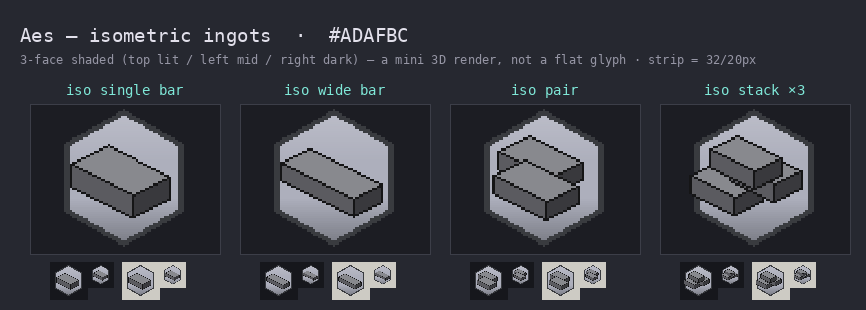
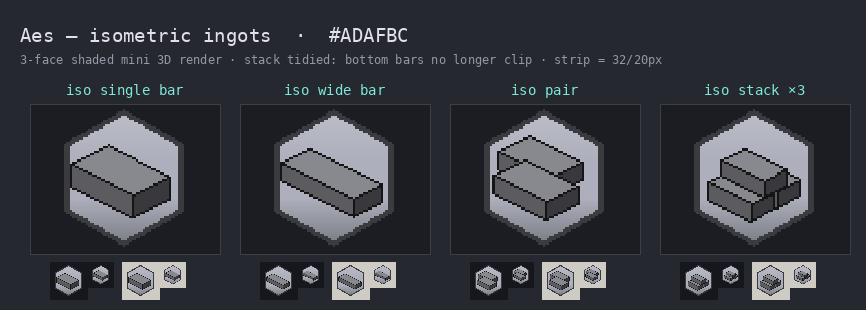
gallery: aspect-primals — tidy iso stack (shared iso space, painter-sorted; bottom bars no longer clip)

diff --git a/gallery/2026-07-20-aspect-primals/src/compounds.py b/gallery/2026-07-20-aspect-primals/src/compounds.py
@@ -318,12 +318,25 @@ def iso_pair(code):
     _iso_box(d, 23, 31, 15, 9, 5, 1.6, t, l, r, e)
     return im
 
+def _iso_scene(d, ox, oy, s, boxes, top, left, right, edge):
+    """Draw several boxes in ONE iso space, painter-sorted far->near so they
+    occlude correctly instead of clipping. Each box = (x0, y0, z0, W, D, H)."""
+    def P(x, y, z): return (ox + (x-z)*s, oy + (x+z)*s*0.5 - y*s)
+    for x0, y0, z0, W, D, H in sorted(boxes, key=lambda b: (b[0]+b[3]/2)+(b[2]+b[4]/2)+(b[1]+b[5]/2)):
+        south = [P(x0, y0, z0+D), P(x0+W, y0, z0+D), P(x0+W, y0+H, z0+D), P(x0, y0+H, z0+D)]
+        east = [P(x0+W, y0, z0), P(x0+W, y0+H, z0), P(x0+W, y0+H, z0+D), P(x0+W, y0, z0+D)]
+        topf = [P(x0, y0+H, z0), P(x0+W, y0+H, z0), P(x0+W, y0+H, z0+D), P(x0, y0+H, z0+D)]
+        for poly, col in ((south, left), (east, right), (topf, top)):
+            d.polygon(poly, fill=col, outline=edge)
+
 def iso_stack(code):
     im, d, _, _ = backdrop_canvas(code)
     t, l, r, e = _metal_shades(code)
-    _iso_box(d, 15, 32, 13, 8, 5, 1.55, t, l, r, e)             # bottom-left
-    _iso_box(d, 33, 26, 13, 8, 5, 1.55, t, l, r, e)             # bottom-right
-    _iso_box(d, 24, 20, 13, 8, 5, 1.55, t, l, r, e)             # top
+    W, D, H = 13, 7, 5
+    boxes = [(0, 0, 0, W, D, H),              # bottom, front
+             (0, 0, D+1, W, D, H),            # bottom, back (small gap, no clip)
+             (0, H, (D+1)/2, W, D, H)]        # top, centred on the two
+    _iso_scene(d, 33, 30, 1.5, boxes, t, l, r, e)
     return im
 
 # ---- Aes: ingot options, round 2 (researched real ingot shapes) ----
